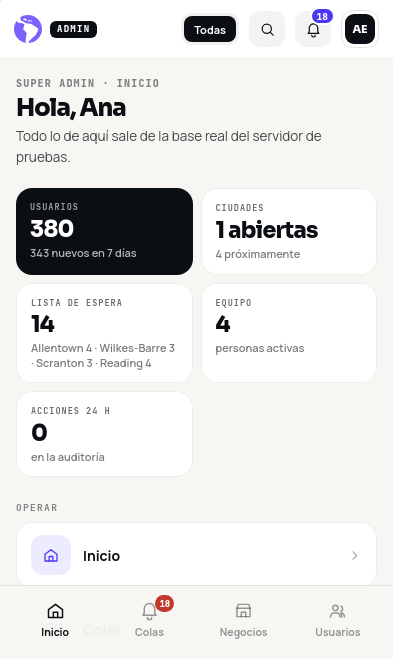
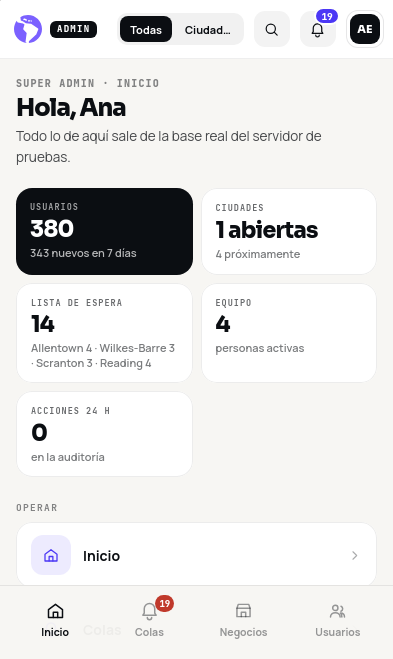
Fase 9 · 9b-3: capturas aprobadas tras juntar 9m, 9n, 9n-2 y 9n-3 — la Inicio en computadora con «Cerca de ti · Mapa» (9m) y Super Admin › Inicio con el selector de ciudad (9n-3); anotadas en REVISION
Claude-Session: https://claude.ai/code/session_01CAVQod1VDR7sfuuZvknrwy

diff --git a/docs/REVISION.md b/docs/REVISION.md
@@ -4857,3 +4857,11 @@ Qué mirar (Super Admin › Inicio y la Inicio del vecino, en el teléfono y en 
 - **Configuración:** solo Noche se abrió, porque era lo único cuyos textos leen el valor (o no lo dicen). Los demás siguen en solo lectura (ver LAUNCH): abrirlos con textos que dicen «24 h» sería mentirle a la persona.
 - **Pantallas sin diseño propio** (compuestas con bloques del sistema): el buscador, Mis dos pasos, el CSV y el mensaje.
 - **Numeración:** migración 0147 y semilla 0065.
+
+## Fase 9 · Capturas aprobadas tras juntar 9m, 9n, 9n-2 y 9n-3 (14 nov)
+Qué mirar:
+- **Inicio del vecino en computadora** (`pruebas/visual/inicio/escritorio-*`): a la derecha sale **«Cerca de ti · Mapa»** (el mini mapa propio de 9m, con los
+  negocios como puntos y «Toca para verlos todos») encima de «Publica tu negocio gratis». En la captura del CI el mapa sale gris porque el CI no trae el
+  archivo de teselas; en el sandbox se ven las calles.
+- **Super Admin › Inicio** (las 9 de `pruebas/visual/admin-hoy/`): arriba, el **selector de ciudad** «Todas | Ciudad…» (9n-3: filtra todo el Super Admin
+  sin dar más alcance que el del rol) y la campana con un caso más (la incidencia de entrega de ejemplo de la semilla de 9n en Colas).
